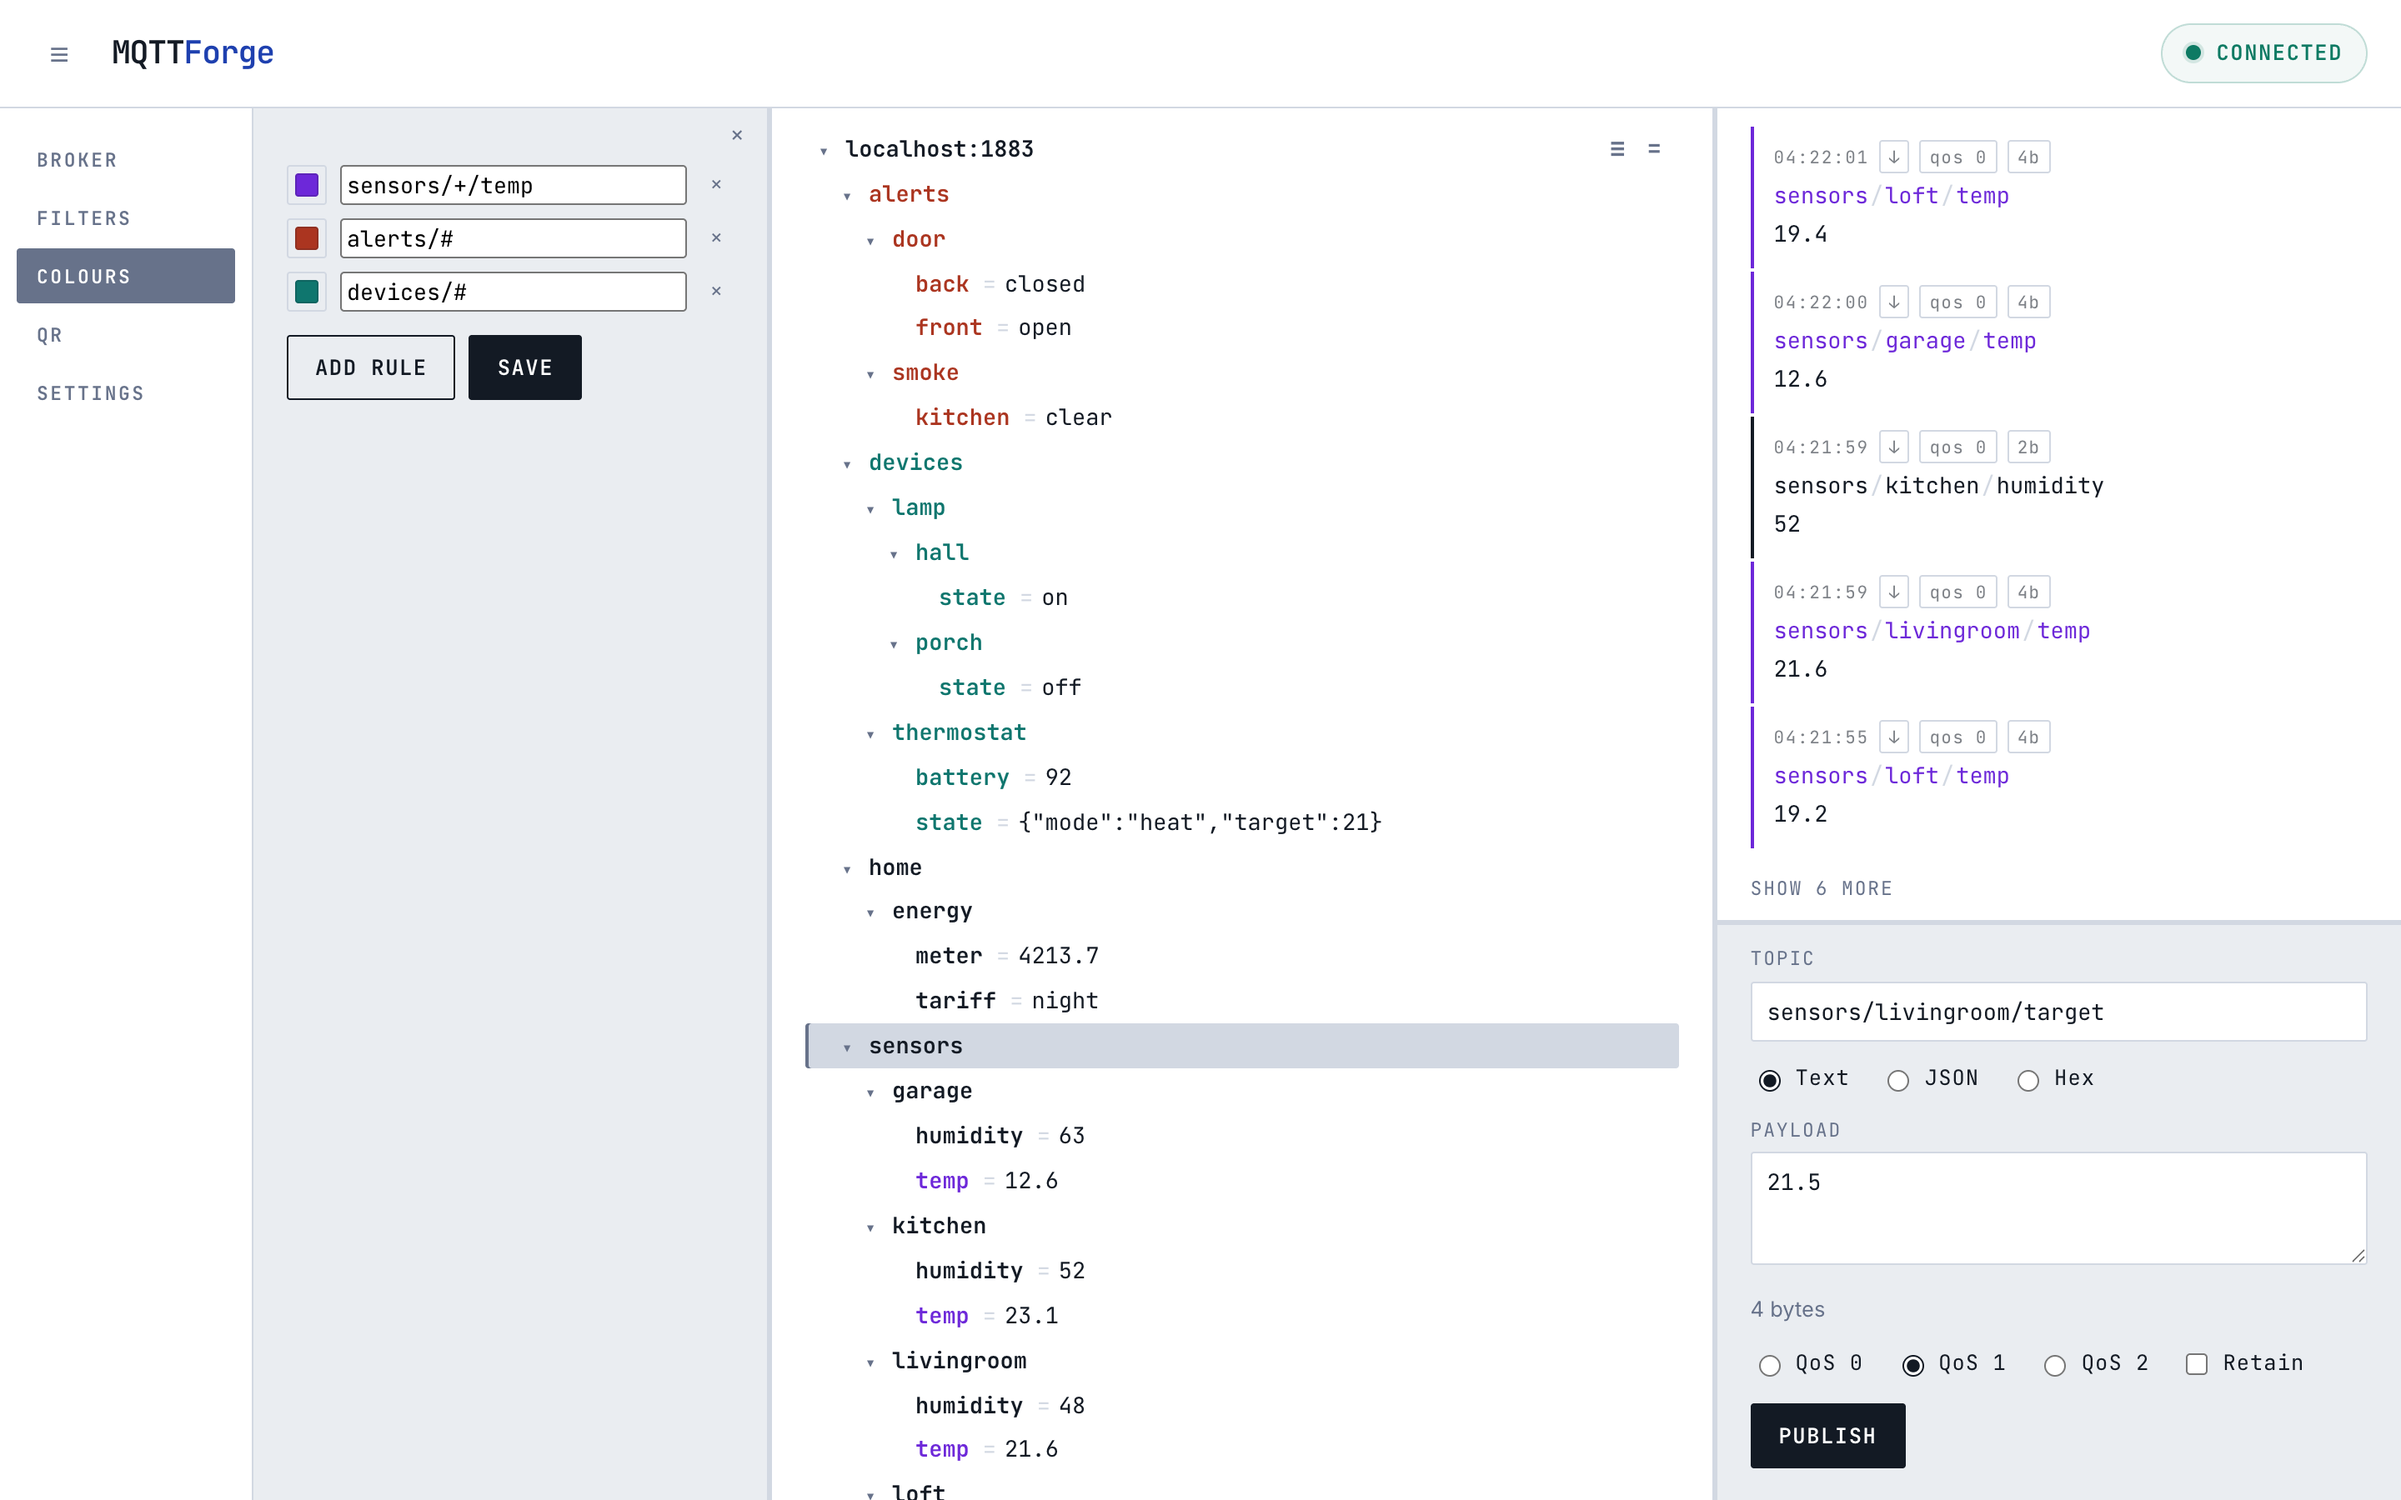
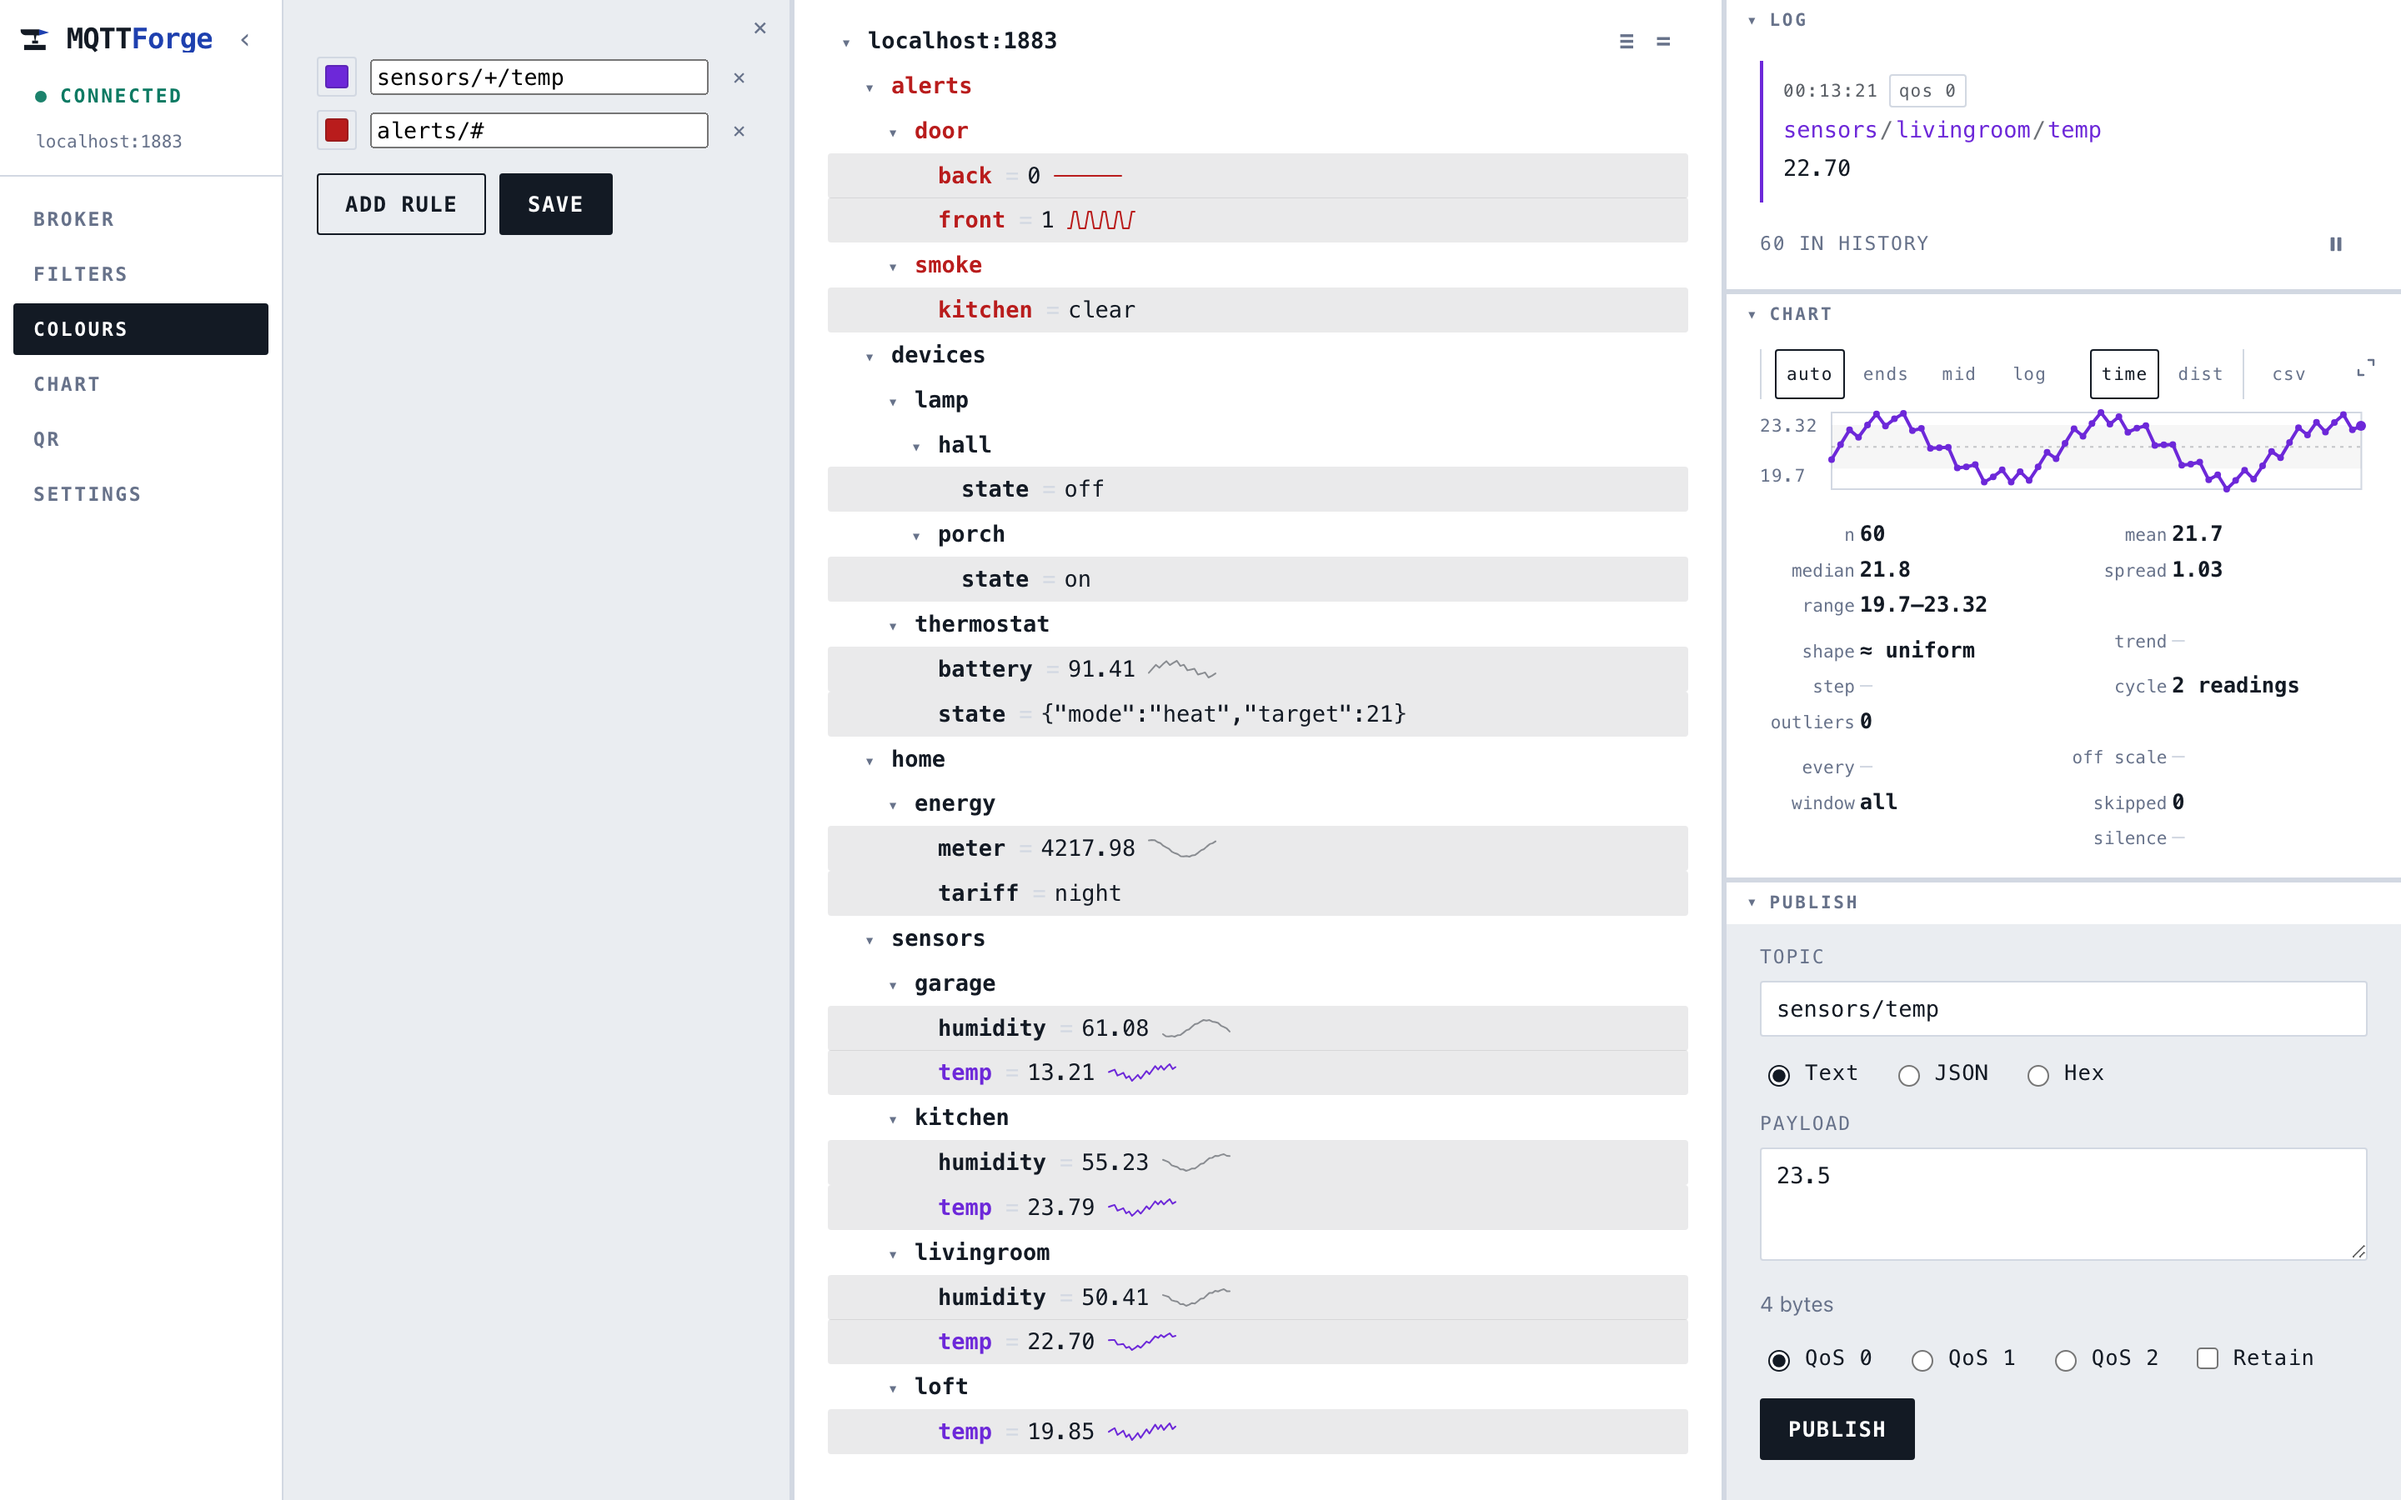
docs: call it a test tool, and show what it looks like now

diff --git a/web/src/gallery.render.test.tsx b/web/src/gallery.render.test.tsx
@@ -309,6 +309,7 @@ it.skipIf(!existsSync(OUT))('writes the gallery', () => {
     'gallery-dots.html',
     'gallery-log.html',
     'console.html',
+    'console-colours.html',
     'console-zoomed.html',
     'console-pinned.html',
   ]
@@ -326,6 +327,8 @@ it.skipIf(!existsSync(OUT))('writes the gallery', () => {
                 ? 'The log'
               : href === 'console.html'
                 ? 'The console'
+              : href === 'console-colours.html'
+                ? 'Colour rules'
                 : href === 'console-zoomed.html'
                   ? 'Chart opened'
                   : href === 'console-pinned.html'
@@ -359,12 +362,13 @@ ${inner}
     writeFileSync(`${OUT}/gallery-${i + 1}.html`, page(`charts ${i + 1}`, `<h2>The chart</h2>${inner}`)),
   );
 
-  writeFileSync(`${OUT}/console.html`, console_(client));
+  writeFileSync(`${OUT}/console.html`, console_(client, { panel: null }));
+  writeFileSync(`${OUT}/console-colours.html`, console_(client, { panel: 'colours' }));
   // The same console with the chart thrown open, which is the state a static page can show and
   // a click cannot be recorded in.
-  writeFileSync(`${OUT}/console-zoomed.html`, console_(client, { zoomed: true }));
+  writeFileSync(`${OUT}/console-zoomed.html`, console_(client, { zoomed: true, panel: null }));
   // And the same console with two charts pinned off it, standing over a console still in use.
-  writeFileSync(`${OUT}/console-pinned.html`, console_(client, { pinned: true }));
+  writeFileSync(`${OUT}/console-pinned.html`, console_(client, { pinned: true, panel: null }));
   useChartWindows.setState({ windows: [] });
 
   // Back to the defaults: the runs above set the range on the store to draw themselves both
@@ -678,7 +682,7 @@ function detail() {
  * a fake hub satisfies the bridge. What this writes is the real layout with real components in
  * it, at whatever size the window opens — which is what a screenshot of the console is.
  */
-function console_(client, { zoomed = false, pinned = false } = {}) {
+function console_(client, { zoomed = false, pinned = false, panel = 'broker' } = {}) {
   // Primed rather than fetched. Rendering here is one synchronous pass, so a query that has to
   // go and ask would still be pending when the HTML is taken — and the page would show a console
   // that had not connected to anything.
@@ -725,13 +729,24 @@ function console_(client, { zoomed = false, pinned = false } = {}) {
         ]
       : [],
   });
+  // A broker with enough on it to look like one: three branches, a few kinds of reading, and the
+  // colour rules above landing on more than one row.
   const traffic = [
     ['sensors/livingroom/temp', wobble(60, 21.6, 1.4)],
+    ['sensors/livingroom/humidity', wobble(60, 48, 3)],
     ['sensors/garage/temp', wobble(60, 12.6, 0.8)],
+    ['sensors/garage/humidity', wobble(40, 63, 5)],
+    ['sensors/kitchen/temp', wobble(60, 23.1, 0.9)],
     ['sensors/kitchen/humidity', wobble(60, 52, 4)],
     ['sensors/loft/temp', wobble(60, 19.4, 0.6)],
     ['devices/thermostat/battery', wobble(20, 92, 1)],
+    ['devices/thermostat/state', repeat(4, '{"mode":"heat","target":21}')],
+    ['devices/lamp/hall/state', repeat(6, 'on', 'on', 'off')],
+    ['devices/lamp/porch/state', repeat(6, 'off', 'on')],
+    ['home/energy/meter', wobble(30, 4213, 6)],
+    ['home/energy/tariff', repeat(4, 'night')],
     ['alerts/door/front', repeat(12, '0', '0', '0', '1', '1')],
+    ['alerts/door/back', repeat(10, '0')],
     ['alerts/smoke/kitchen', repeat(8, 'clear')],
   ];
   for (const [topic, bodies] of traffic) {
@@ -763,6 +778,18 @@ function console_(client, { zoomed = false, pinned = false } = {}) {
       <App hub={createFakeHub()} />
     </QueryClientProvider>,
   );
+
+  // The console opens with the Broker panel over the first column, which is right for a reader
+  // who has just started it and wrong for a picture of the tool working. The panel is a click,
+  // and a static page cannot carry one — so the click is made here.
+  const menu = (name) =>
+    [...container.querySelectorAll('nav[aria-label="Panels"] button')].find(
+      (button) => button.textContent === name,
+    );
+  if (panel !== 'broker') {
+    act(() => fireEvent.click(menu('Broker')));
+    if (panel) act(() => fireEvent.click(menu(panel[0].toUpperCase() + panel.slice(1))));
+  }
 
   return `<!doctype html><html lang="en"><head><meta charset="utf-8">
 <meta name="viewport" content="width=device-width,initial-scale=1">

diff --git a/web/index.html b/web/index.html
@@ -4,7 +4,7 @@
     <meta charset="UTF-8" />
     <link rel="icon" type="image/svg+xml" href="/favicon.svg" />
     <meta name="viewport" content="width=device-width, initial-scale=1.0" />
-    <title>MQTTForge — Test Console</title>
+    <title>MQTTForge — MQTT test tool</title>
   </head>
   <body>
     <div id="root"></div>

diff --git a/src/MqttForge.Infrastructure/Mqtt/MqttnetConnectionManager.cs b/src/MqttForge.Infrastructure/Mqtt/MqttnetConnectionManager.cs
@@ -16,7 +16,7 @@ public sealed class MqttnetConnectionManager : IMqttConnectionManager
     // MQTTnet defaults to pinging every 15 seconds and calls the link dead when a PINGRESP is
     // late. On a loaded public broker — with a '#' subscription filling the read loop — that is
     // no margin at all, and a working connection drops reporting "didn't respond in time".
-    // A minute still notices a black-holed link quickly enough for a test console, and a socket
+    // A minute still notices a black-holed link quickly enough for a test tool, and a socket
     // that actually breaks is reported immediately either way; this only covers silent stalls.
     public static readonly TimeSpan KeepAlive = TimeSpan.FromSeconds(60);
 

diff --git a/README.md b/README.md
@@ -4,16 +4,19 @@
 [![Image](https://img.shields.io/badge/ghcr.io-mqtt--forge-1e40af?logo=docker&logoColor=white)](https://github.com/ibrahimilkhan/mqtt-forge/pkgs/container/mqtt-forge)
 [![Licence](https://img.shields.io/github/license/ibrahimilkhan/mqtt-forge?color=1e40af)](LICENSE)
 
-An open-source MQTT test console: connect to a broker, watch topics as they arrive, and publish.
+An open-source MQTT test tool with a window you look at: connect to a broker, watch topics as
+they arrive, chart what they are sending, and publish. It runs as a desktop app or as one Docker
+image — nothing to drive from a terminal.
+
 The broker connection is held by the server rather than by the browser, so every device you point
 at it — your desktop, or a phone from the QR panel — is working one connection, one set of
 subscriptions and one set of colour rules.
 
 MQTTForge connects to a broker you already run — it is not a broker itself.
 
-![The console connected to a broker: the topic tree in the middle with alert and device branches
-in their rule colours, the wire log on the right showing time, direction, QoS and size on every
-row, and the publish form below it](.github/assets/console.png)
+![MQTTForge connected to a broker: the topic tree in the middle, each topic showing its latest
+value and the shape of its run, with alert and sensor branches in their rule colours; on the
+right the newest message, the chart of the run behind it and the publish form](.github/assets/console.png)
 
 ## What it does
 
@@ -38,12 +41,15 @@ row, and the publish form below it](.github/assets/console.png)
   own; narrow it to one filter or a list when a busy broker makes that too much.
 - **Colour rules** — MQTT filters you pick colours for, so a branch stands out in a tree of
   hundreds.
-- **QR panel** — opens the same console on a phone on your network.
+- **Chart windows** — open a chart over the app, and pin it to keep it there: it holds the topic
+  it was opened on while the rest of the app moves on. Several at once, so two runs can be read
+  side by side.
+- **QR panel** — opens the same app on a phone on your network.
 - **Chart panel** — how much of the chart to draw, what range it opens on, what is drawn round
   it, a switch for every reading the note can make, and a line on every chip over the plot saying
   what it does. `spread`, `duty` and `csv` are three-letter labels; this is where they are
   spelled out.
-- **Settings** — the fonts and their size, and which of six marks the console wears.
+- **Settings** — the fonts and their size, and which of six marks the app wears.
 
 It speaks MQTT 5.0 only, over TCP or TLS, with a username and password if the broker wants them.
 A broker that speaks just 3.1.1 refuses the connection.
@@ -99,7 +105,7 @@ on Apple Silicon:
 docker run -d -p 5169:5169 --name mqtt-forge ghcr.io/ibrahimilkhan/mqtt-forge
 ```
 
-**2. Open http://localhost:5169.** The console loads with the Broker panel already open.
+**2. Open http://localhost:5169.** It loads with the Broker panel already open.
 
 **3. Point it at your broker** — fill in the host and port, then **Connect**. Which host depends
 on where the broker runs:
@@ -153,9 +159,9 @@ The **Colours** panel takes a list of MQTT filters and a colour for each — `se
 `alerts/#`, whatever you watch for. Every topic a rule covers is then drawn in that colour, in
 the tree and in the log, with the row's left edge carrying it too.
 
-![The Colours panel holding three rules beside the tree they paint: sensors/+/temp in purple
-picks the temperatures out of the sensor branches, alerts/# colours that whole subtree red, and
-devices/# colours its own in teal](.github/assets/colours.png)
+![The Colours panel holding two rules beside the tree they paint: sensors/+/temp in purple picks
+the temperatures out of the sensor branches, and alerts/# colours that whole subtree
+red](.github/assets/colours.png)
 
 When two rules cover one topic the more specific filter wins: read left to right, a named
 segment beats `+`, and `+` beats `#`. So `sensors/#` can colour a whole subtree while
@@ -165,7 +171,7 @@ opened from the QR panel sees the same colours.
 
 ## Reading a sensor
 
-A topic whose messages are numbers is a measurement, and a console that only shows you the
+A topic whose messages are numbers is a measurement, and a tool that only shows you the
 latest one leaves the arithmetic to your eye — which is the arithmetic an eye is worst at. Pick
 such a topic and the pane draws its run, and writes what the run adds up to underneath:
 
@@ -213,6 +219,18 @@ measured against its own size. A message that carries no reading is stepped over
 abandoning the chart, and the note counts what it stepped over — in the fault colour when more of
 the run was stepped over than was drawn.
 
+### Two runs at once
+
+The corner control over the chart opens it as a window across the app, and the pin in that
+window's bar keeps it there: a pinned window holds the topic it was opened on while the app below
+carries on being used for something else. Open a second on another topic and the two stand side
+by side. Unpin one to move or size it, drag it near an edge and it takes the edge, and the × in
+its bar closes it.
+
+![Two chart windows standing over the app, each with the topic it was opened on in its bar and
+its own readings underneath: one pinned in place, one loose with its resize corner
+showing](.github/assets/windows.png)
+
 A selection covering several topics — which is what clicking a branch of the tree gives you —
 draws one small plot per topic, each on its own scale, since °C and % share no axis but do share
 a moment. Clicking a row narrows the pane to that topic, where the note and the field chips are.
@@ -241,8 +259,9 @@ because the row shares a pane that can be two hundred pixels wide; the **Chart**
 each of them does. The control in the region's top-right corner lifts the chart out of its column —
 the plot lives in a third of a column that is itself a third of the window, which is the right
 size for glancing at a run and the wrong size for reading one. Open, it takes three fifths of the
-window and leaves the console readable around it, and still live: click a topic in the tree and
-the chart redraws for it without closing. The same control, or **Escape**, puts it back.
+window and leaves the rest readable around it, and still live: click a topic in the tree and the
+chart redraws for it without closing. The same control, or **Escape**, puts it back — or pin it,
+and it stays as a window of its own.
 
 ### The chart panel
 

diff --git a/SECURITY.md b/SECURITY.md
@@ -12,7 +12,7 @@ Fixes go into the next one; older versions are not patched.
 
 ## What this app is
 
-A test console with no authentication of its own, which binds `0.0.0.0` on purpose — that is what
+A test tool with no authentication of its own, which binds `0.0.0.0` on purpose — that is what
 lets the QR panel open it on a phone. Anyone who can reach the port can drive it: publish to your
 broker, read the traffic, and see the broker host and username. Treat "on my network" as "reachable
 by everyone on my network".
